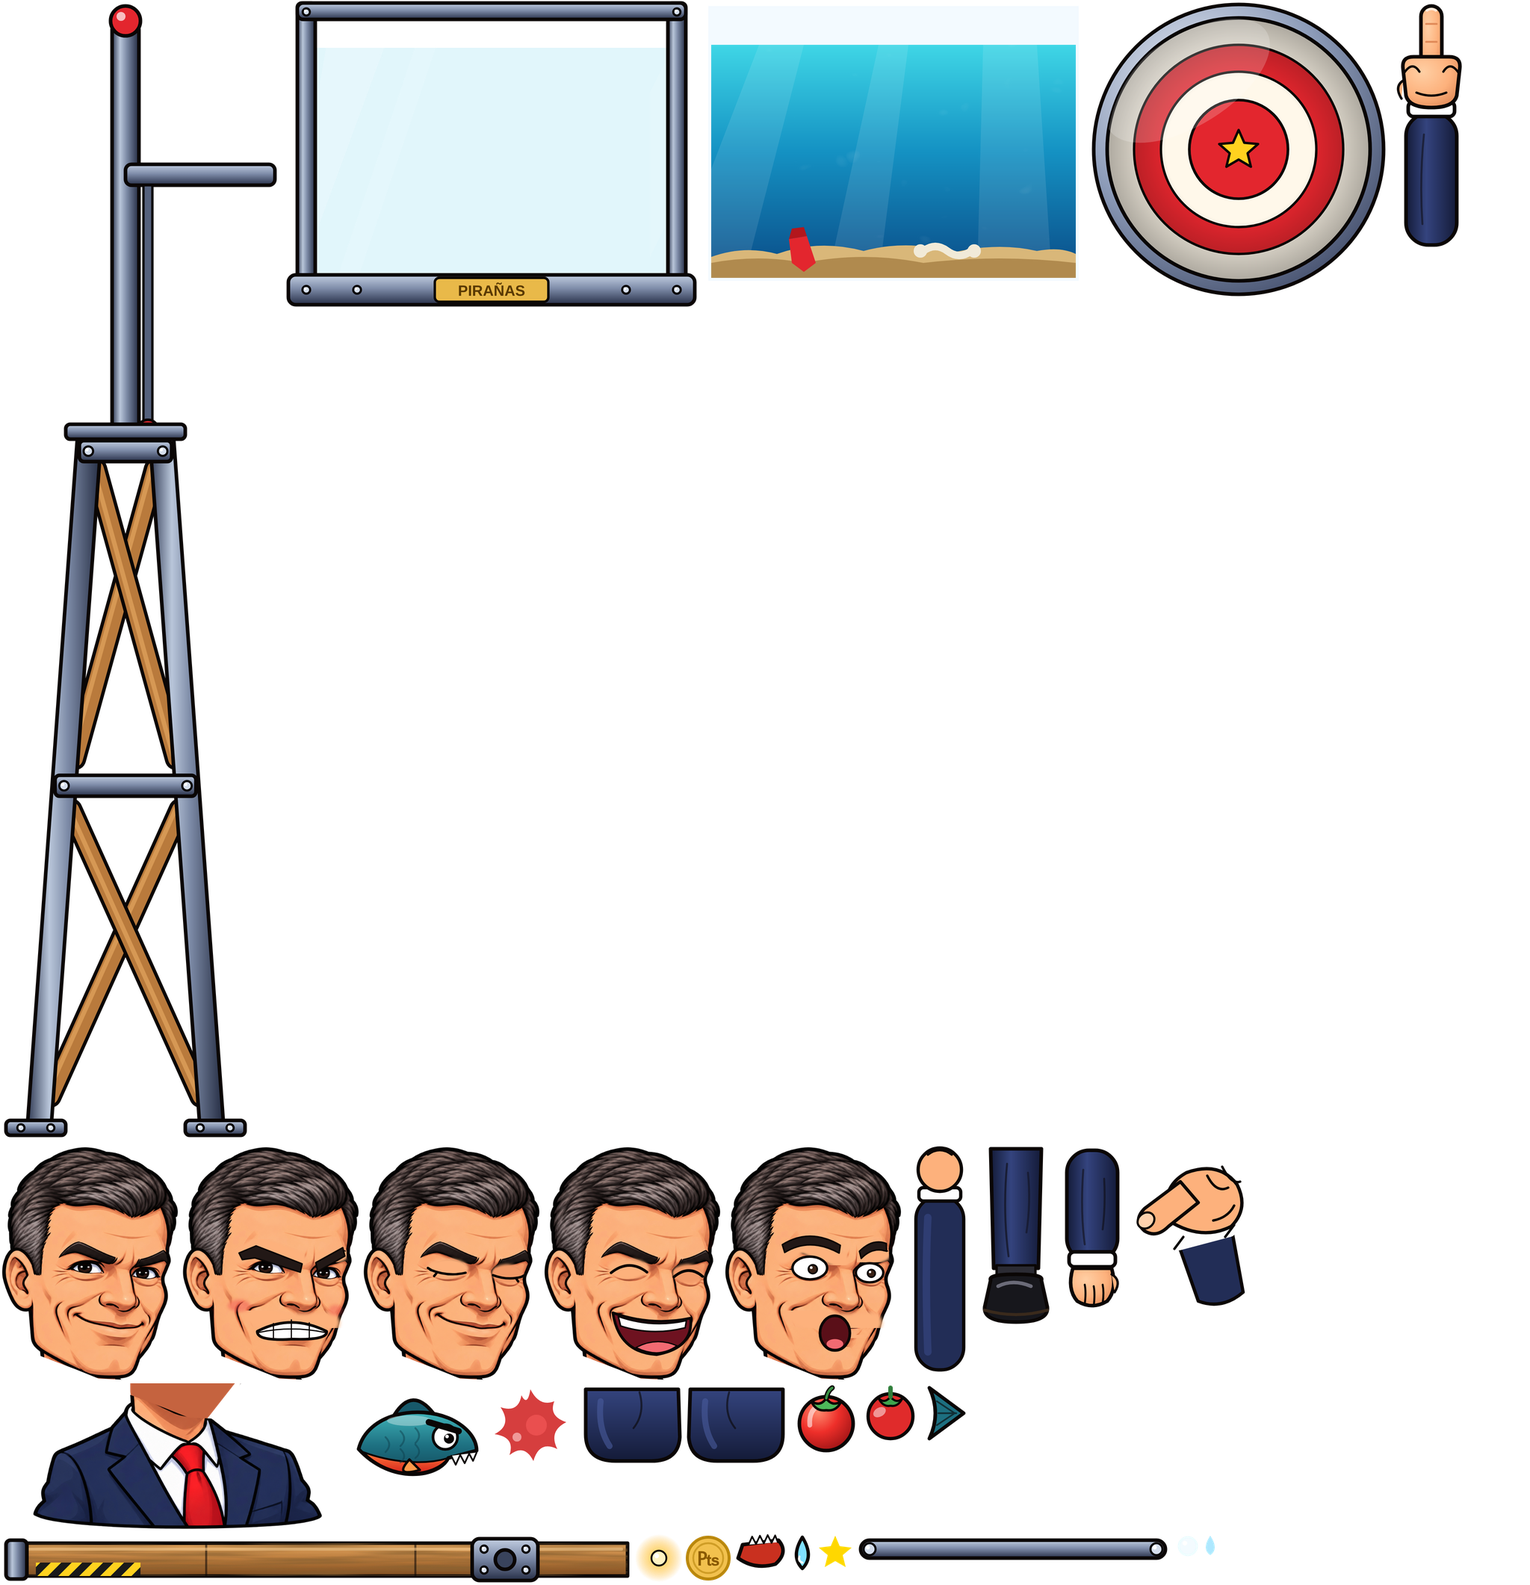
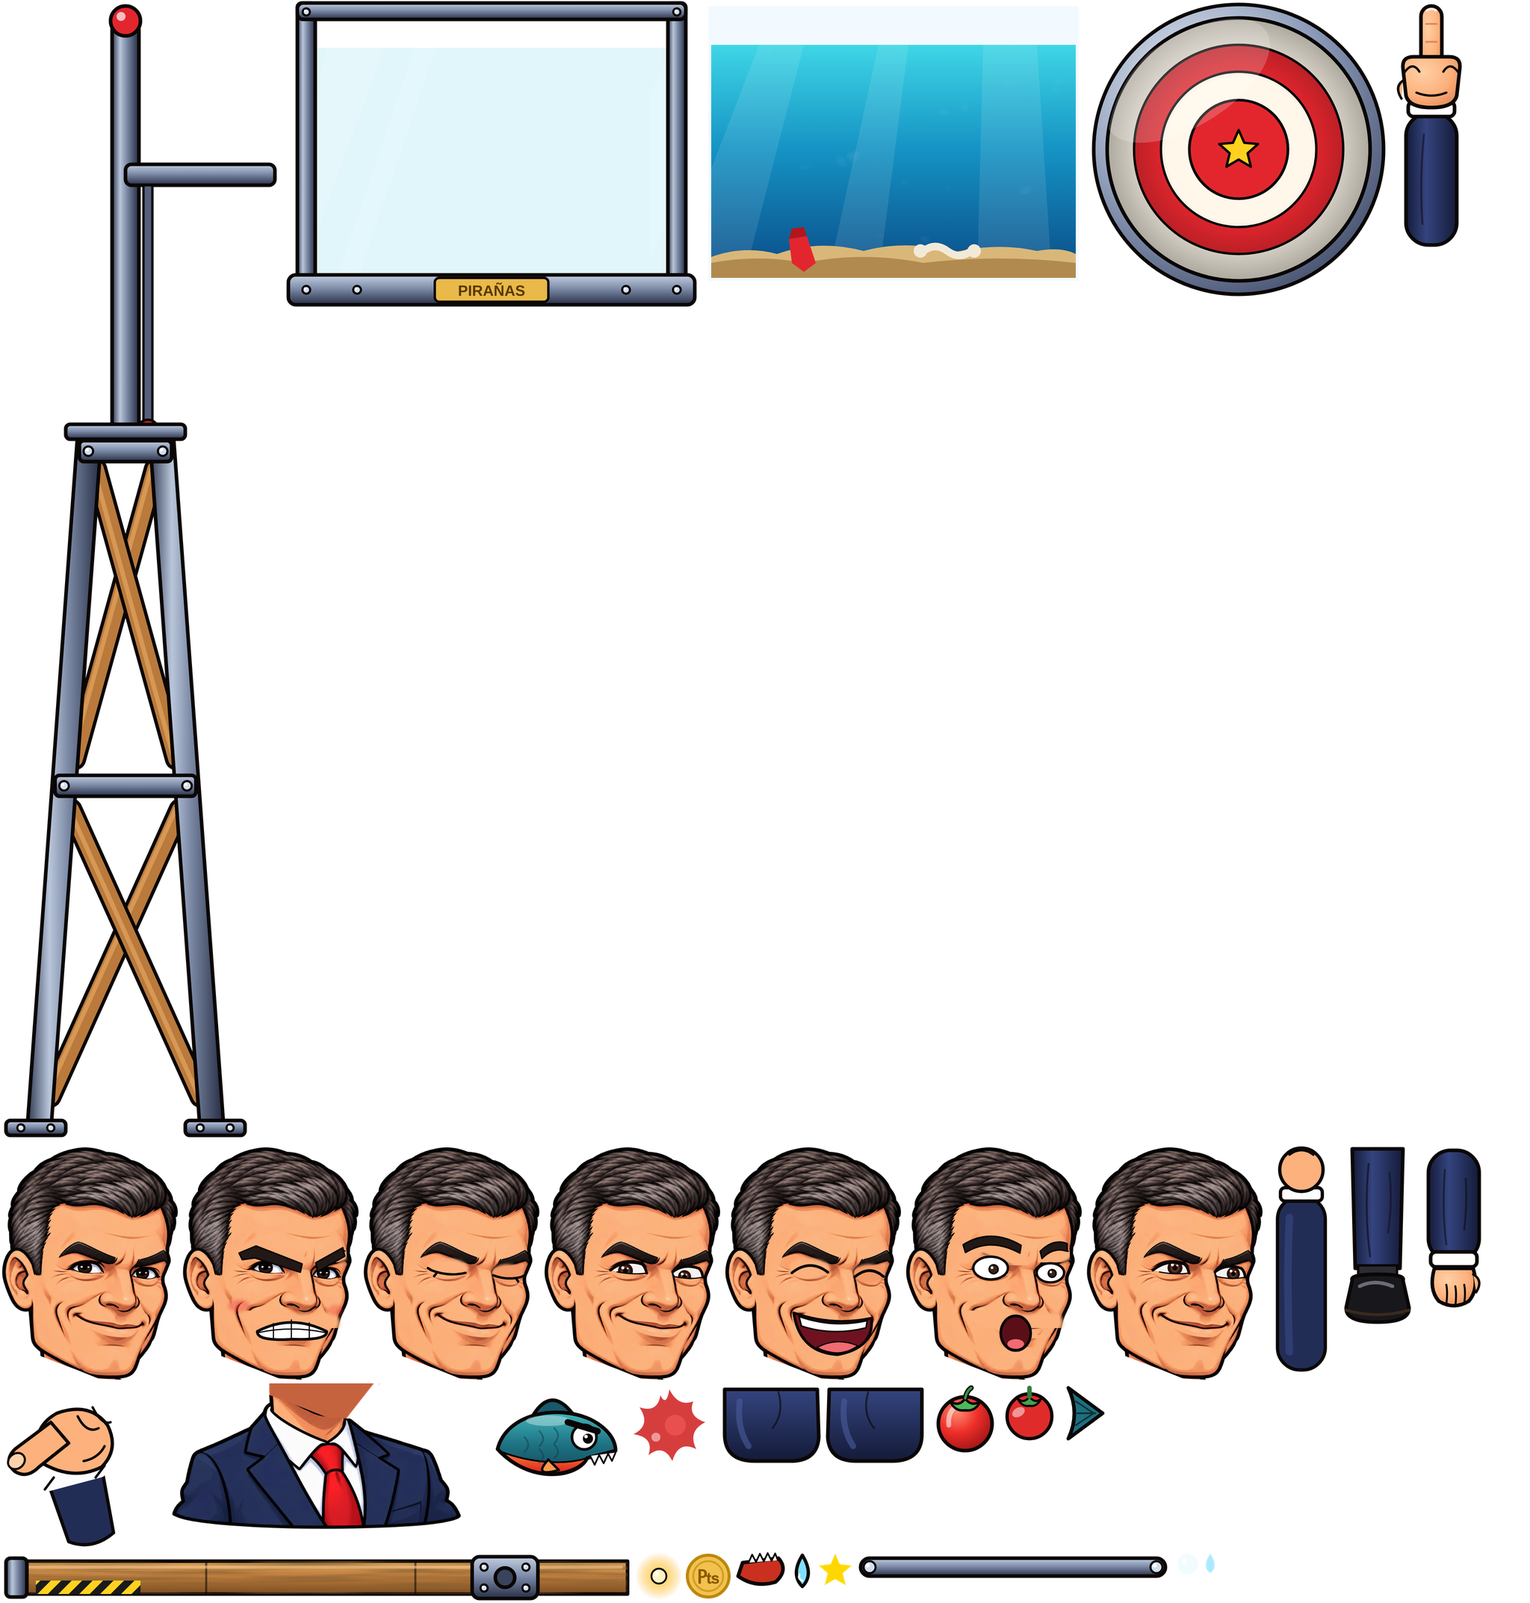
Rediseño: sin logotipo, gestos de espera de Pedro con miradas nuevas, botones de lanzamiento según tomates disponibles
Claude-Session: https://claude.ai/code/session_01EeyawvK3tPQ6WjnEgMFTW9

diff --git a/js/game/pedro.js b/js/game/pedro.js
@@ -21,6 +21,7 @@ const PARTS = {
 const HEAD_PARTS = ['head', 'noseTomato', 'sweat'];
 const GESTURES = ['armUp', 'armNose', 'armPoint'];
 const HEAD_FRAME = { smile: 'head', smug: 'head', laugh: 'headLaugh', shock: 'headShock', angry: 'headAngry' };
+const rnd = (a, b) => a + Math.random() * (b - a);
 const REST_L = -52, REST_R = 51;
 
 export class Pedro extends Phaser.GameObjects.Container {
@@ -50,21 +51,59 @@ export class Pedro extends Phaser.GameObjects.Container {
   headTween(cfg) { return this.scene.tweens.add({ targets: this.head, ...cfg, onUpdate: () => this.applyHead() }); }
   resetHead() { this.head.angle = 0; this.head.x = 0; this.head.y = 0; this.applyHead(); }
   restArms() { this.p.armL.angle = REST_L; this.p.armR.angle = REST_R; }
+  // ---------- espera: bucles de base + gestos sueltos encadenados ----------
+  // Estado 'idle' = puede hacer gestos; cualquier reacción (setMood distinto de smile) lo bloquea, como un "modo cinemático".
   idle() {
-    const t = this.scene.tweens; this.stopIdle();
+    const t = this.scene.tweens; this.stopIdle(); this.locked = false;
     this.idleTweens = [
-      t.add({ targets: this.p.bust, scaleY: (1 / TEX_SCALE) * 1.03, duration: 1600, yoyo: true, repeat: -1, ease: 'Sine.easeInOut' }),
-      this.headTween({ angle: { from: -2.5, to: 2.5 }, y: { from: 0, to: -1.5 }, duration: 2400, yoyo: true, repeat: -1, ease: 'Sine.easeInOut' }),
+      t.add({ targets: this.p.bust, scaleY: (1 / TEX_SCALE) * 1.035, duration: 1700, yoyo: true, repeat: -1, ease: 'Sine.easeInOut' }),
+      t.add({ targets: this, angle: { from: -0.9, to: 0.9 }, duration: 2600, yoyo: true, repeat: -1, ease: 'Sine.easeInOut' }),
+      this.headTween({ angle: { from: -2.5, to: 2.5 }, y: { from: 0, to: -1.5 }, duration: 2300, yoyo: true, repeat: -1, ease: 'Sine.easeInOut' }),
       t.add({ targets: this.p.armL, angle: { from: REST_L - 2, to: REST_L + 3 }, duration: 2000, yoyo: true, repeat: -1, ease: 'Sine.easeInOut' }),
       t.add({ targets: this.p.armR, angle: { from: REST_R + 2, to: REST_R - 3 }, duration: 2300, yoyo: true, repeat: -1, ease: 'Sine.easeInOut' }),
-      t.add({ targets: this.p.shinL, angle: { from: 7, to: -6 }, duration: 1300, yoyo: true, repeat: -1, ease: 'Sine.easeInOut' }),
-      t.add({ targets: this.p.shinR, angle: { from: -6, to: 7 }, duration: 1300, yoyo: true, repeat: -1, ease: 'Sine.easeInOut', delay: 350 }),
+      t.add({ targets: this.p.shinL, angle: { from: 8, to: -7 }, duration: 1250, yoyo: true, repeat: -1, ease: 'Sine.easeInOut' }),
+      t.add({ targets: this.p.shinR, angle: { from: -7, to: 8 }, duration: 1250, yoyo: true, repeat: -1, ease: 'Sine.easeInOut', delay: 380 }),
     ];
-    this.blinkEv = this.scene.time.addEvent({ delay: 3600, loop: true, callback: () => this.blink() });
+    this.blinkEv = this.scene.time.addEvent({ delay: 3300, loop: true, callback: () => this.blink() });
+    this.scheduleBeat();
   }
-  blink() { if (HEAD_FRAME[this.mood] !== 'head') return; this.p.head.setFrame('headBlink'); this.scene.time.delayedCall(120, () => { if (HEAD_FRAME[this.mood] === 'head') this.p.head.setFrame('head'); }); }
-  stopIdle() { this.idleTweens?.forEach(t => t.stop()); this.idleTweens = null; this.blinkEv?.remove(); this.resetHead(); this.restArms(); this.p.bust.scaleY = 1 / TEX_SCALE; this.p.shinL.angle = 0; this.p.shinR.angle = 0; }
-  setMood(m) { this.mood = m; this.p.head.setFrame(HEAD_FRAME[m] || 'head'); this.p.sweat.setVisible(m === 'shock'); }
+  scheduleBeat() { this.beatEv?.remove(); this.beatEv = this.scene.time.delayedCall(rnd(2600, 5200), () => { if (!this.locked && this.idleTweens) this.playBeat(); this.scheduleBeat(); }); }
+  playBeat(name) {
+    const beats = ['glanceDown', 'glanceTarget', 'tie', 'tap', 'kick'], pick = name || beats.filter(b => b !== this.lastBeat)[Math.floor(Math.random() * 4)];
+    this.lastBeat = pick; this.stopBeat(); this.inBeat = true;
+    const P = this.p, done = () => { this.inBeat = false; if (!this.locked) { P.head.setFrame('head'); P.sweat.setVisible(false); } };
+    const pause = on => this.idleTweens?.forEach((tw, i) => { if (i >= 3) on ? tw.pause() : tw.resume(); });   // brazos y piernas
+    const chain = tweens => { this.beat = this.scene.tweens.chain({ tweens, onComplete: () => { pause(false); done(); } }); };
+    const H = this.head, upd = () => this.applyHead();
+    if (pick === 'glanceDown') {          // mira a las pirañas, traga saliva, recoge las piernas
+      pause(true); P.head.setFrame('headDown'); P.sweat.setVisible(true); P.sweat.base.y = -178;
+      this.scene.tweens.add({ targets: P.sweat.base, y: -150, duration: 1300, onUpdate: upd });
+      chain([{ targets: [P.shinL, P.shinR], angle: 0, duration: 200, ease: 'Quad.Out' },
+        { targets: P.shinL, angle: 16, duration: 260, ease: 'Back.Out' }, { targets: P.shinR, angle: -16, duration: 220, ease: 'Back.Out', offset: '-=200' },
+        { targets: P.bust, y: 1, duration: 120, yoyo: true, repeat: 1, delay: 500 },                                  // trago
+        { targets: [P.shinL, P.shinR], angle: 0, duration: 350, ease: 'Sine.InOut', delay: 250 }]);
+    } else if (pick === 'glanceTarget') { // mira la diana de reojo y suelta una risita
+      P.head.setFrame('headSide');
+      chain([{ targets: P.bust, x: 2, duration: 500, ease: 'Sine.Out', hold: 500, yoyo: true },
+        { targets: P.bust, y: { from: 3, to: 0.5 }, duration: 80, yoyo: true, repeat: 3, onStart: () => P.head.setFrame('head') }]);
+    } else if (pick === 'tie') {          // se ajusta la corbata con suficiencia
+      pause(true);
+      chain([{ targets: P.armR, angle: 124, duration: 380, ease: 'Back.Out' },
+        { targets: P.armR, angle: { from: 124, to: 116 }, duration: 110, yoyo: true, repeat: 3 },
+        { targets: P.armR, angle: REST_R, duration: 420, ease: 'Sine.InOut', delay: 150 }]);
+    } else if (pick === 'tap') {          // tamborilea con los dedos en la rodilla
+      pause(true);
+      chain([{ targets: P.armL, angle: { from: REST_L, to: REST_L - 6 }, duration: 75, yoyo: true, repeat: 7 }, { targets: P.armL, angle: REST_L, duration: 120 }]);
+    } else {                              // patalea
+      pause(true);
+      chain([{ targets: P.shinL, angle: -20, duration: 170, ease: 'Quad.Out' }, { targets: P.shinR, angle: 20, duration: 170, ease: 'Quad.Out', offset: '-=90' },
+        { targets: [P.shinL, P.shinR], angle: 0, duration: 520, ease: 'Bounce.Out' }]);
+    }
+  }
+  stopBeat() { if (this.beat) { this.beat.stop(); this.beat = null; } if (this.inBeat) { this.inBeat = false; this.idleTweens?.forEach(tw => tw.resume()); this.p.bust.x = 0; this.p.bust.y = 3; this.p.sweat.base.y = -178; } }
+  blink() { if (this.locked || this.inBeat || HEAD_FRAME[this.mood] !== 'head') return; this.p.head.setFrame('headBlink'); this.scene.time.delayedCall(120, () => { if (!this.locked && !this.inBeat && HEAD_FRAME[this.mood] === 'head') this.p.head.setFrame('head'); }); }
+  stopIdle() { this.stopBeat(); this.beatEv?.remove(); this.idleTweens?.forEach(t => t.stop()); this.idleTweens = null; this.blinkEv?.remove(); this.resetHead(); this.restArms(); this.angle = 0; this.p.bust.scaleY = 1 / TEX_SCALE; this.p.shinL.angle = 0; this.p.shinR.angle = 0; }
+  setMood(m) { this.locked = m !== 'smile'; if (this.locked) this.stopBeat(); this.mood = m; this.p.head.setFrame(HEAD_FRAME[m] || 'head'); this.p.sweat.setVisible(m === 'shock'); }
   setGesture(g) { GESTURES.forEach(k => this.p[k].setVisible(k === g)); this.p.armR.setVisible(!g); this.p.noseTomato.setVisible(g === 'armNose'); }
   setWet(v) { this.wet = v; const tint = v ? 0xdcecfa : 0xffffff; ['head', 'bust', 'hips', 'shinL', 'shinR', 'armL', 'armR', 'armUp', 'armNose', 'armPoint'].forEach(k => this.p[k].setTint(tint)); v ? this.drips.start() : this.drips.stop(); }
   tween(cfg) { return new Promise(r => this.scene.tweens.add({ ...cfg, onComplete: r })); }

diff --git a/css/style.css b/css/style.css
@@ -14,18 +14,14 @@ button:focus-visible{outline:3px solid var(--spot);outline-offset:2px}
 
 /* BARRA SUPERIOR */
 .top{display:flex;align-items:center;gap:8px;padding:8px 10px 4px;flex:0 0 auto;position:relative;z-index:5}
-.logo{display:flex;flex-direction:column;line-height:.82;font-family:var(--display);letter-spacing:.5px;transform:rotate(-3deg);filter:drop-shadow(0 3px 0 rgba(0,0,0,.45))}
-.logo span{font-size:12px;color:var(--spot);padding-left:2px}
-.logo b{font-size:27px;font-weight:400;color:var(--tomato);-webkit-text-stroke:1.5px var(--paper);paint-order:stroke fill;display:flex;align-items:center}
-.logo b svg{width:25px;height:27px;margin:-3px 0 0 1px}
-.chips{margin-left:auto;display:flex;gap:6px}
+.chips{display:flex;gap:6px}
 .chip{display:flex;align-items:center;gap:5px;height:38px;padding:0 12px 0 5px;border-radius:19px;border:2px solid rgba(255,255,255,.16);background:linear-gradient(180deg,rgba(255,255,255,.16),rgba(255,255,255,.04));box-shadow:inset 0 1px 0 rgba(255,255,255,.25),0 3px 0 rgba(0,0,0,.35);font-family:var(--display);font-size:19px;color:var(--paper)}
 .chip svg{width:28px;height:28px}
 .chip b{font-weight:400;min-width:1ch}
 .chip.coin b{color:#ffe07a}
 .chip.pop,.chip.bounce{animation:chipPop .4s cubic-bezier(.2,1.6,.5,1)}
 @keyframes chipPop{40%{transform:scale(1.18)}}
-.top-btns{display:flex;gap:6px}
+.top-btns{display:flex;gap:6px;margin-left:auto}
 .icon-btn{width:38px;height:38px;border-radius:50%;border:2px solid rgba(255,255,255,.16);background:linear-gradient(180deg,rgba(255,255,255,.16),rgba(255,255,255,.04));box-shadow:inset 0 1px 0 rgba(255,255,255,.25),0 3px 0 rgba(0,0,0,.35);display:grid;place-items:center;color:var(--paper);transition:transform .1s}
 .icon-btn svg{width:20px;height:20px}
 .icon-btn:active{transform:translateY(2px)}
@@ -48,7 +44,11 @@ button:focus-visible{outline:3px solid var(--spot);outline-offset:2px}
 .dock{width:100%;max-width:460px;flex:1 1 auto;display:flex;flex-direction:column;justify-content:space-evenly;gap:6px;padding:4px 12px 8px;min-height:0}
 .throw{display:flex;align-items:center;gap:8px}
 .throw-label{font-family:var(--display);font-size:15px;color:var(--spot);transform:rotate(-4deg)}
-.throw-row{flex:1;display:grid;grid-template-columns:repeat(4,1fr);gap:7px}
+.throw{min-height:46px}
+.throw-row{flex:1;display:flex;gap:7px}
+.throw-row .btn-throw{flex:1 1 0;animation:chipIn .3s cubic-bezier(.2,1.6,.5,1)}
+@keyframes chipIn{from{transform:scale(.6);opacity:0}}
+.throw-empty{flex:1;margin:0;text-align:center;font-size:15px;color:#9fb4e8}
 .btn-throw{height:46px;border-radius:14px;border:2px solid var(--ink);font-family:var(--display);font-size:20px;color:#fff;text-shadow:0 2px 0 rgba(0,0,0,.35);
   background:radial-gradient(120% 90% at 30% 0,#ff8a6e 0,var(--tomato) 45%,var(--tomato2) 100%);box-shadow:inset 0 2px 0 rgba(255,255,255,.45),0 4px 0 #4a0508;transition:transform .07s,box-shadow .07s,filter .2s}
 .btn-throw:active{transform:translateY(3px);box-shadow:inset 0 2px 0 rgba(255,255,255,.45),0 1px 0 #4a0508}
@@ -89,11 +89,11 @@ button:focus-visible{outline:3px solid var(--spot);outline-offset:2px}
   .meter .num{font-size:38px}.meter small{font-size:15px}
   .btn-throw,.btn-stop{height:56px;font-size:24px}.throw-label{font-size:19px}
   .nav button{height:74px;font-size:15px}.nav button svg{width:38px;height:38px}
-  .logo b{font-size:38px}.logo b svg{width:35px;height:38px}.logo span{font-size:16px}
+  
   .chip{height:44px;font-size:23px}.chip svg{width:34px;height:34px}.icon-btn{width:44px;height:44px}.icon-btn svg{width:24px;height:24px}
 }
 @media (max-height:520px) and (min-aspect-ratio:1.05/1){
-  .top{padding:3px 10px 0}.logo b{font-size:22px}.logo b svg{width:20px;height:22px}.logo span{font-size:10px}.chip,.icon-btn{height:32px;font-size:16px}.icon-btn{width:32px}.chip svg{width:22px;height:22px}
+  .top{padding:3px 10px 0}.chip,.icon-btn{height:32px;font-size:16px}.icon-btn{width:32px}.chip svg{width:22px;height:22px}
   .layout{gap:14px;padding:0 10px 4px}#game-wrap{max-width:calc(100% - 320px)}
   .dock{width:300px;flex-basis:300px;gap:6px}.dome{width:104px;height:104px}.dome .cap{inset:13px}.dome .cap em{font-size:19px}.dome .cpt{font-size:12px}
   .meter .num{font-size:22px}.meter small{font-size:11px}.btn-throw,.btn-stop{height:38px;font-size:17px}.throw-label{font-size:13px}
@@ -110,7 +110,7 @@ button:focus-visible{outline:3px solid var(--spot);outline-offset:2px}
   #game-wrap{width:min(100%,calc((100dvh - 470px) * .8))}
   .dock{max-width:640px;gap:14px}.dome{width:190px;height:190px}.dome .cap em{font-size:36px}.meter .num{font-size:44px}.meter small{font-size:17px}
   .btn-throw,.btn-stop{height:64px;font-size:28px}.throw-label{font-size:22px}.nav button{height:86px;font-size:17px}.nav button svg{width:44px;height:44px}
-  .logo b{font-size:40px}.logo b svg{width:37px;height:40px}.logo span{font-size:17px}.chip{height:48px;font-size:25px}.chip svg{width:36px;height:36px}.icon-btn{width:48px;height:48px}.icon-btn svg{width:26px;height:26px}
+  .chip{height:48px;font-size:25px}.chip svg{width:36px;height:36px}.icon-btn{width:48px;height:48px}.icon-btn svg{width:26px;height:26px}
 }
 
 /* flotantes */

diff --git a/js/ui.js b/js/ui.js
@@ -41,7 +41,11 @@ export function hud(pop = false) {
   $('#hist-num').textContent = fmt(s.tomatoesEarned);
   $('#cpt-badge').textContent = `+${cpt}`;
   $('#btn-click').classList.toggle('falcon', falconActive());
-  $$('.btn-throw').forEach(b => { b.disabled = busy || state.tomatoes < +b.dataset.n; });
+  // solo se muestran las cantidades que el jugador puede lanzar
+  $$('.btn-throw').forEach(b => { const ok = state.tomatoes >= +b.dataset.n; b.classList.toggle('hidden', !ok); b.disabled = busy || !ok; });
+  const none = state.tomatoes < 1, aiming = !$('#btn-stop').classList.contains('hidden');
+  $('#throw-row').classList.toggle('hidden', aiming || none);
+  $('#throw-empty').classList.toggle('hidden', !none || aiming || busy); $('.throw-label').classList.toggle('hidden', none && !aiming && !busy);
   const fb = $('#falcon-badge'); fb.classList.toggle('hidden', !falconActive());
   if (falconActive()) { const ms = state.falconUntil - Date.now(), m = Math.floor(ms / 60000), sec = Math.floor(ms % 60000 / 1000); $('#falcon-time').textContent = `${m}:${String(sec).padStart(2, '0')}`; }
   $('#chest-dot').classList.toggle('hidden', !backend.dailyAvailable());
@@ -49,7 +53,7 @@ export function hud(pop = false) {
 function setNum(sel, v, popSel) { const el = $(sel); if (el.textContent !== fmt(v)) { el.textContent = fmt(v); popEl(popSel ? $(popSel) : el); } }
 function popEl(el) { el.classList.remove('pop'); void el.offsetWidth; el.classList.add('pop'); }
 export function setBusy(b) { busy = b; hud(); }
-export function showStop(v) { $('#btn-stop').classList.toggle('hidden', !v); $('#throw-row').classList.toggle('hidden', v); if (!v) $('#volley-badge').classList.add('hidden'); }
+export function showStop(v) { $('#btn-stop').classList.toggle('hidden', !v); $('#throw-row').classList.toggle('hidden', v); if (!v) $('#volley-badge').classList.add('hidden'); hud(); }
 export function volleyProgress(i, n) { $('#volley-badge').classList.toggle('hidden', !n); if (n) { $('#volley-i').textContent = i; $('#volley-n').textContent = n; } }
 export function floater(text, x, y) {
   const r = $('#btn-click').getBoundingClientRect(), el = document.createElement('div'); el.className = 'floater'; el.textContent = text;

diff --git a/js/game/stage.js b/js/game/stage.js
@@ -43,6 +43,7 @@ export function buildStage(scene) {
   scene.add.image(L.TOWER_X, L.FLOOR, 'atlas', 'tower').setOrigin(84 / 190, 758 / 764).setScale(1 / T).setDepth(1);
   const strut = img(scene, L.TOWER_X - 32, 560, 'strut', [-10, -10, 214, 20], [0, 0]).setDepth(1).setAngle(-134);
   const plank = img(scene, L.HINGE_X, L.HINGE_Y, 'plank', [-338, -17, 424, 34], [0, 0]).setDepth(4);
+  const seatShadow = scene.add.ellipse(L.SEAT_X, L.SEAT_Y + 3, 150, 12, 0x000000, .38).setDepth(4);
   // reflejos tenues sobre el suelo brillante
   scene.add.image(L.TANK_X - 8, L.FLOOR + 106, 'atlas', 'tankFront').setOrigin(0, 0).setScale(1 / T, -1 / T).setDepth(1).setAlpha(.16);
   scene.add.image(L.TOWER_X, L.FLOOR - 2, 'atlas', 'tower').setOrigin(84 / 190, 758 / 764).setScale(1 / T, -1 / T).setDepth(1).setAlpha(.13);
@@ -51,7 +52,7 @@ export function buildStage(scene) {
   const bulbs = []; for (let i = 0; i < 14; i++) { const a = i / 14 * Math.PI * 2 - Math.PI / 2; bulbs.push(scene.add.image(L.TARGET_X + Math.cos(a) * 92.5, L.TARGET_Y + Math.sin(a) * 92.5, 'atlas', 'bulb').setScale(.42).setDepth(2).setBlendMode('ADD')); }
   let bt = 0, mode = 'chase';
   return {
-    fish, bubbles, tankFront, strut, plank, target, bulbs,
+    fish, bubbles, tankFront, strut, plank, target, bulbs, seatShadow,
     setBulbs(m) { mode = m; },
     update(dt) {
       surf.tilePositionX += dt * .03; fish.forEach(f => f.update(dt, L.TANK_X + 52, L.TANK_X + L.TANK_W - 52));

diff --git a/js/game/scene.js b/js/game/scene.js
@@ -105,7 +105,7 @@ export class MainScene extends Phaser.Scene {
     if (this.splats.length > 14) this.splats.first.destroy();
   }
   async fall(res, decision, last) {
-    const P = this.pedro; P.stopIdle(); SFX.clank(); SFX.win();
+    const P = this.pedro; P.stopIdle(); this.sc.seatShadow.setVisible(false); SFX.clank(); SFX.win();
     this.fxText(res.kind === 'perfect' ? '¡PERFECTO!' : '¡AL AGUA!', 400, 62);
     P.setMood('shock'); this.say(['¡¿QUÉ?! ¡NOOO!', '¡Esto es un golpe de Estado!', '¡Aaaaah!'][Phaser.Math.Between(0, 2)], 1200);
     this.tweens.add({ targets: this.chair, angle: -75, x: this.chair.x - 18, y: this.chair.y + 8, duration: 650, ease: 'Quad.easeIn' });
@@ -123,7 +123,7 @@ export class MainScene extends Phaser.Scene {
     this.tweens.add({ targets: this.chair, angle: 0, x: this.chairHome.x, y: this.chairHome.y, duration: 400, ease: 'Back.easeOut' });
     P.setPosition(L.SEAT_X, L.SEAT_Y - 140).setAlpha(0).setAngle(0);
     await this.tween({ targets: P, y: L.SEAT_Y, alpha: 1, duration: 550, ease: 'Bounce.easeOut' });
-    P.idle();
+    P.idle(); this.sc.seatShadow.setVisible(true);
     if (last) { this.say(LINES.wetChair[Phaser.Math.Between(0, LINES.wetChair.length - 1)], 2400); }
     this.time.delayedCall(last ? 4500 : 2500, () => { P.setWet(false); if (!this.busy) P.setMood('smile'); });
   }

diff --git a/index.html b/index.html
@@ -12,7 +12,6 @@
 <body>
 <div id="app">
   <header class="top">
-    <div class="logo" aria-label="Al agua Pedro"><span>AL AGUA</span><b>PEDR<svg viewBox="0 0 44 48"><use href="#svg-tomato" width="44" height="48"/></svg></b></div>
     <div class="chips">
       <div class="chip" id="basket" title="Tomates"><svg viewBox="0 0 44 48" class="ico-tomato"><use href="#svg-tomato" width="44" height="48"/></svg><b id="tomato-num">0</b></div>
       <button class="chip coin" id="pill-pesetas" title="Pesetas"><svg viewBox="0 0 44 44"><use href="#i-coin" width="44" height="44"/></svg><b id="pesetas-num">0</b></button>
@@ -38,6 +37,7 @@
         <div class="throw-row" id="throw-row">
           <button class="btn-throw" data-n="1">×1</button><button class="btn-throw" data-n="3">×3</button><button class="btn-throw" data-n="5">×5</button><button class="btn-throw" data-n="10">×10</button>
         </div>
+        <p id="throw-empty" class="throw-empty hidden">Pulsa el botón rojo para conseguir tomates</p>
         <button id="btn-stop" class="btn-stop hidden">¡Ahora!</button>
       </div>
       <div class="pulsador">
